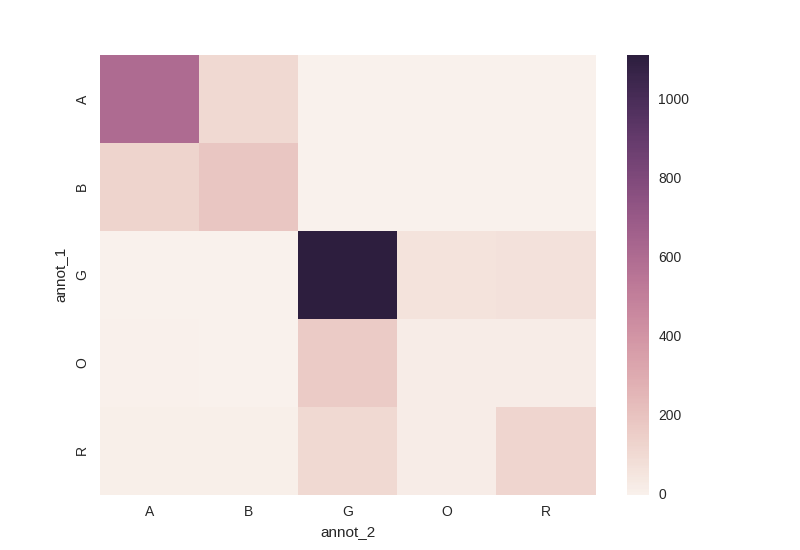
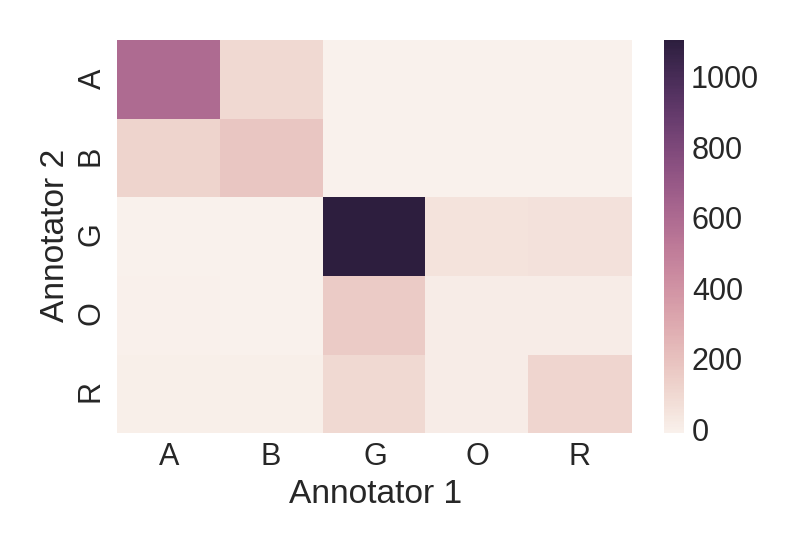
scaling of text

diff --git a/scripts/iaa_binned.py b/scripts/iaa_binned.py
@@ -22,7 +22,7 @@ LOG = logging.getLogger(__name__)
 def do_bins(agree, bins, field_name, csv_file, graph_file, name):
   LOG.info("Calculating kappas, binning by " +name)
   #groups = (("ab", ("A", "B")), ("rog", ("R", "O", "G")), ("all", ("A", "B","R", "O", "G")))
-  groups = (("struct", ("A", "B")), ("lex", ("R", "O", "G")))
+  groups = (("struct", ("A", "B")), ("atomic", ("R", "O", "G")))
   with open(csv_file, "w") as ofh:
     writer = csv.writer(ofh)
     writer.writerow(("lang","group","bin_start","bin_end","count","kappa"))
@@ -76,8 +76,8 @@ def do_bins(agree, bins, field_name, csv_file, graph_file, name):
       ax.set_xticks(index + 0.5)
       ax.set_xlim(0,len(bins))
       ax.set_xticklabels(["{}-{}".format(n,m) for n,m in bins])
-      lgd = ax.legend([r[0] for r in rects],[g for g,_ in groups], loc='upper right')#, bbox_to_anchor=(1.0,1.1))
-      ax.set_title("Kappa by {}: {}".format(name, lang_name))
+      lgd = ax.legend([r[0] for r in rects],[g for g,_ in groups], loc='upper left')#, bbox_to_anchor=(1.0,1.1))
+      #ax.set_title("Kappa by {}: {}".format(name, lang_name))
       ax.set_ylabel("Kappa")
       ax.set_xlabel(name)
       graph_file_name = "{}_{}.png".format(graph_file, lang)
@@ -108,6 +108,9 @@ def main():
   parser.add_argument("--bleu-bins-plot", help="Plot to file stem", default = "iaa_bleu")
   args = parser.parse_args()
 
+
+  # font size
+  plt.rcParams.update({'font.size': 18})
   
   sentences = pandas.read_csv(args.sentence_file)
   nodes = pandas.read_csv(args.node_file, converters={'node_id': str, 'parent' : str})

diff --git a/scripts/iaa.py b/scripts/iaa.py
@@ -60,7 +60,11 @@ def print_overall_iaa(by_lang, lang, args):
     if args.create_heatmaps and group == ("A", "B","R", "O", "G"):
       import matplotlib.pyplot as plt
       import seaborn
+      seaborn.set(font_scale=2.2)
+      plt.rcParams.update({'figure.autolayout': True})
       heatmap = seaborn.heatmap(df)
+      heatmap.set_xlabel("Annotator 1")
+      heatmap.set_ylabel("Annotator 2")
       plt.savefig("iaa_heatmap_{}.png".format(lang))
       plt.clf()
 
